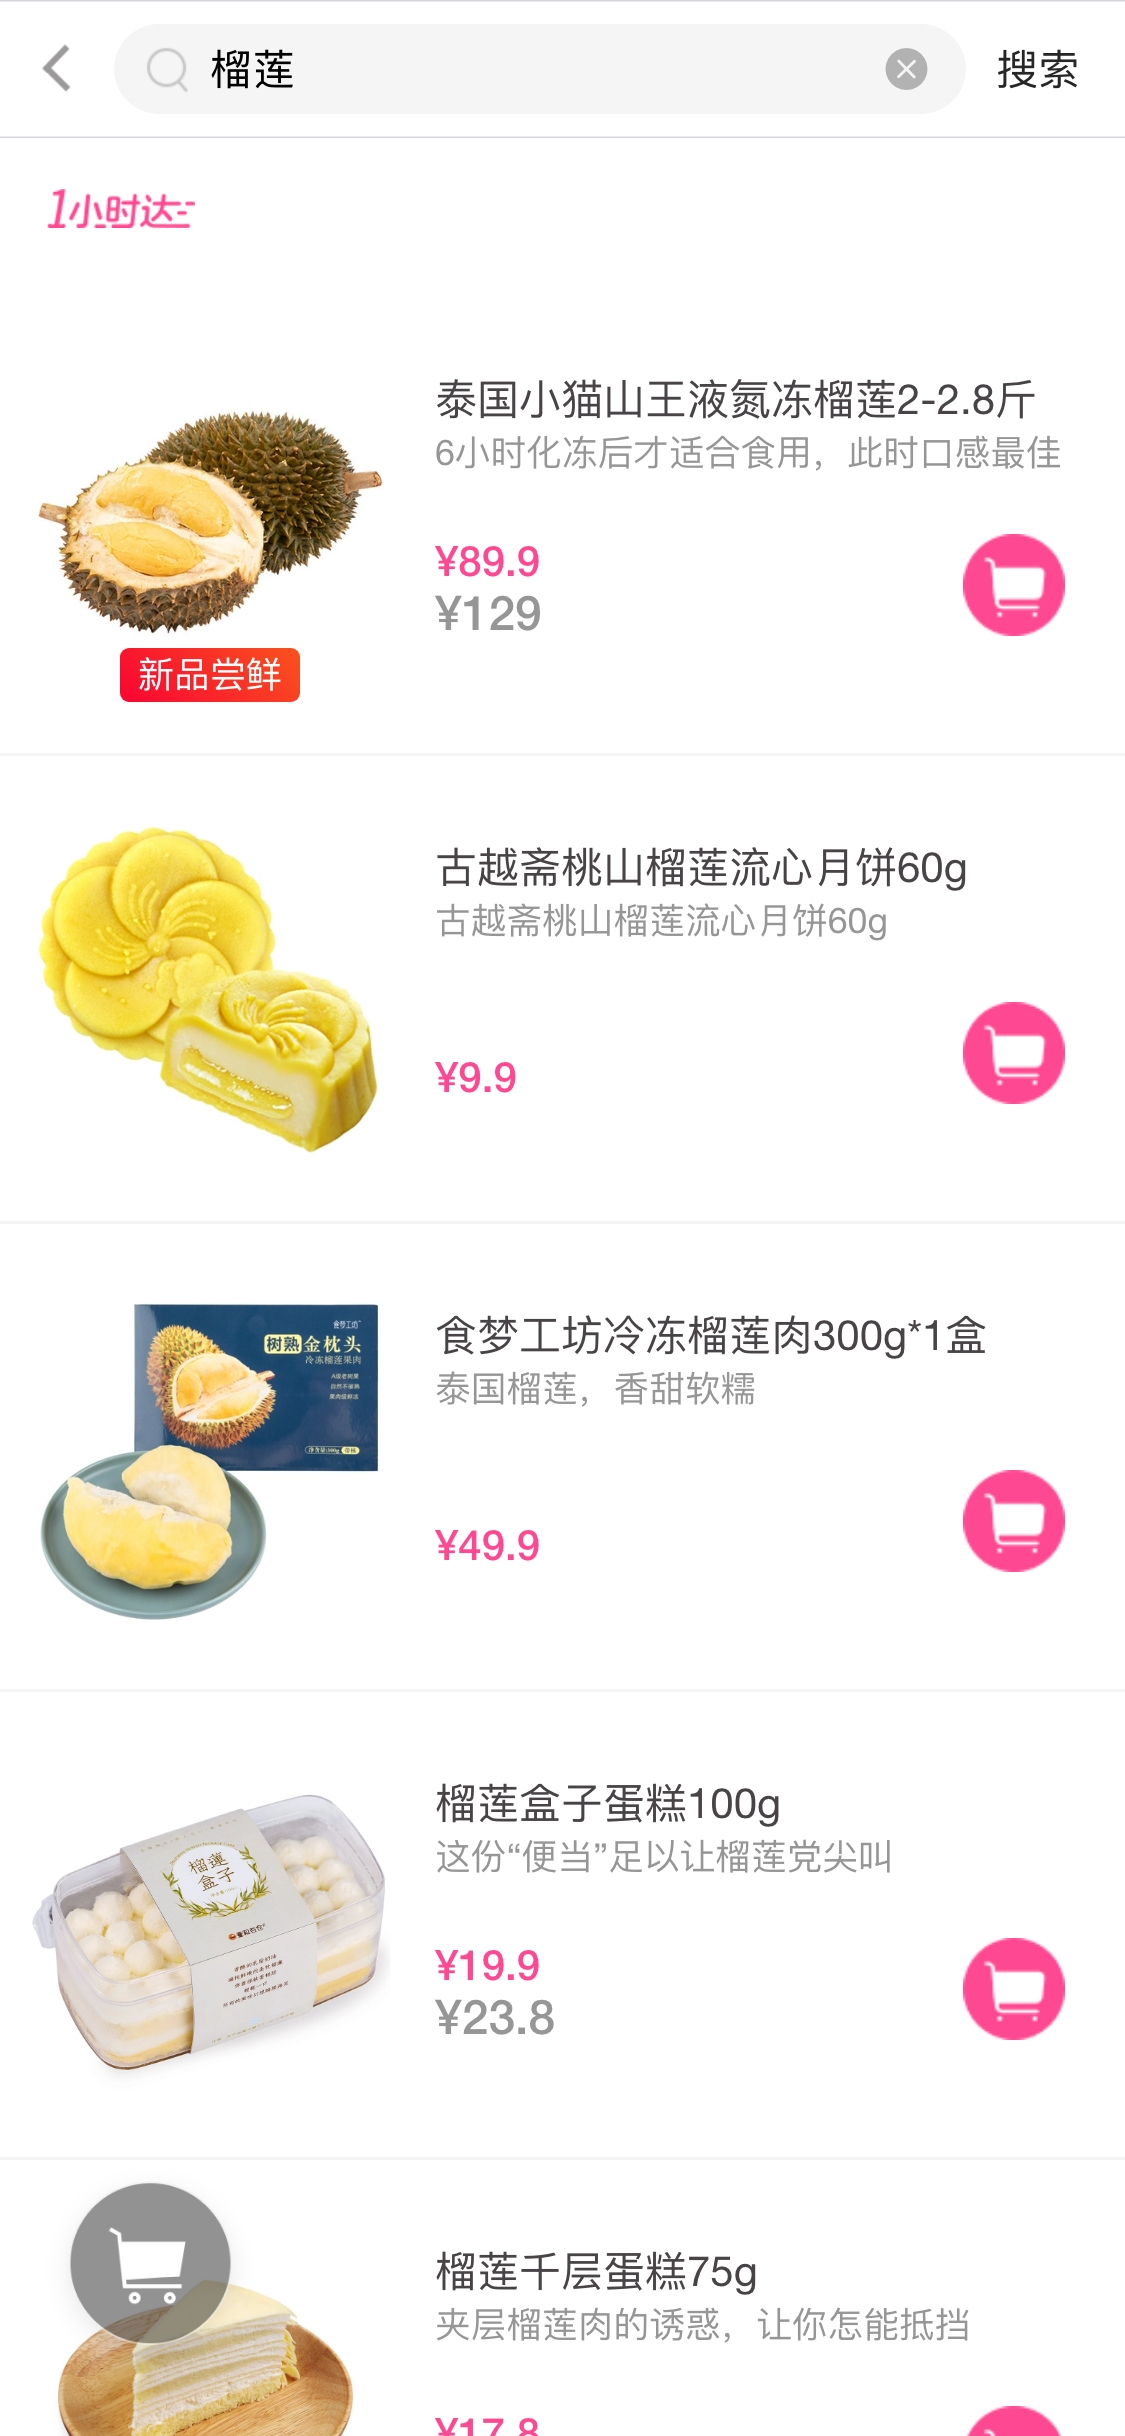
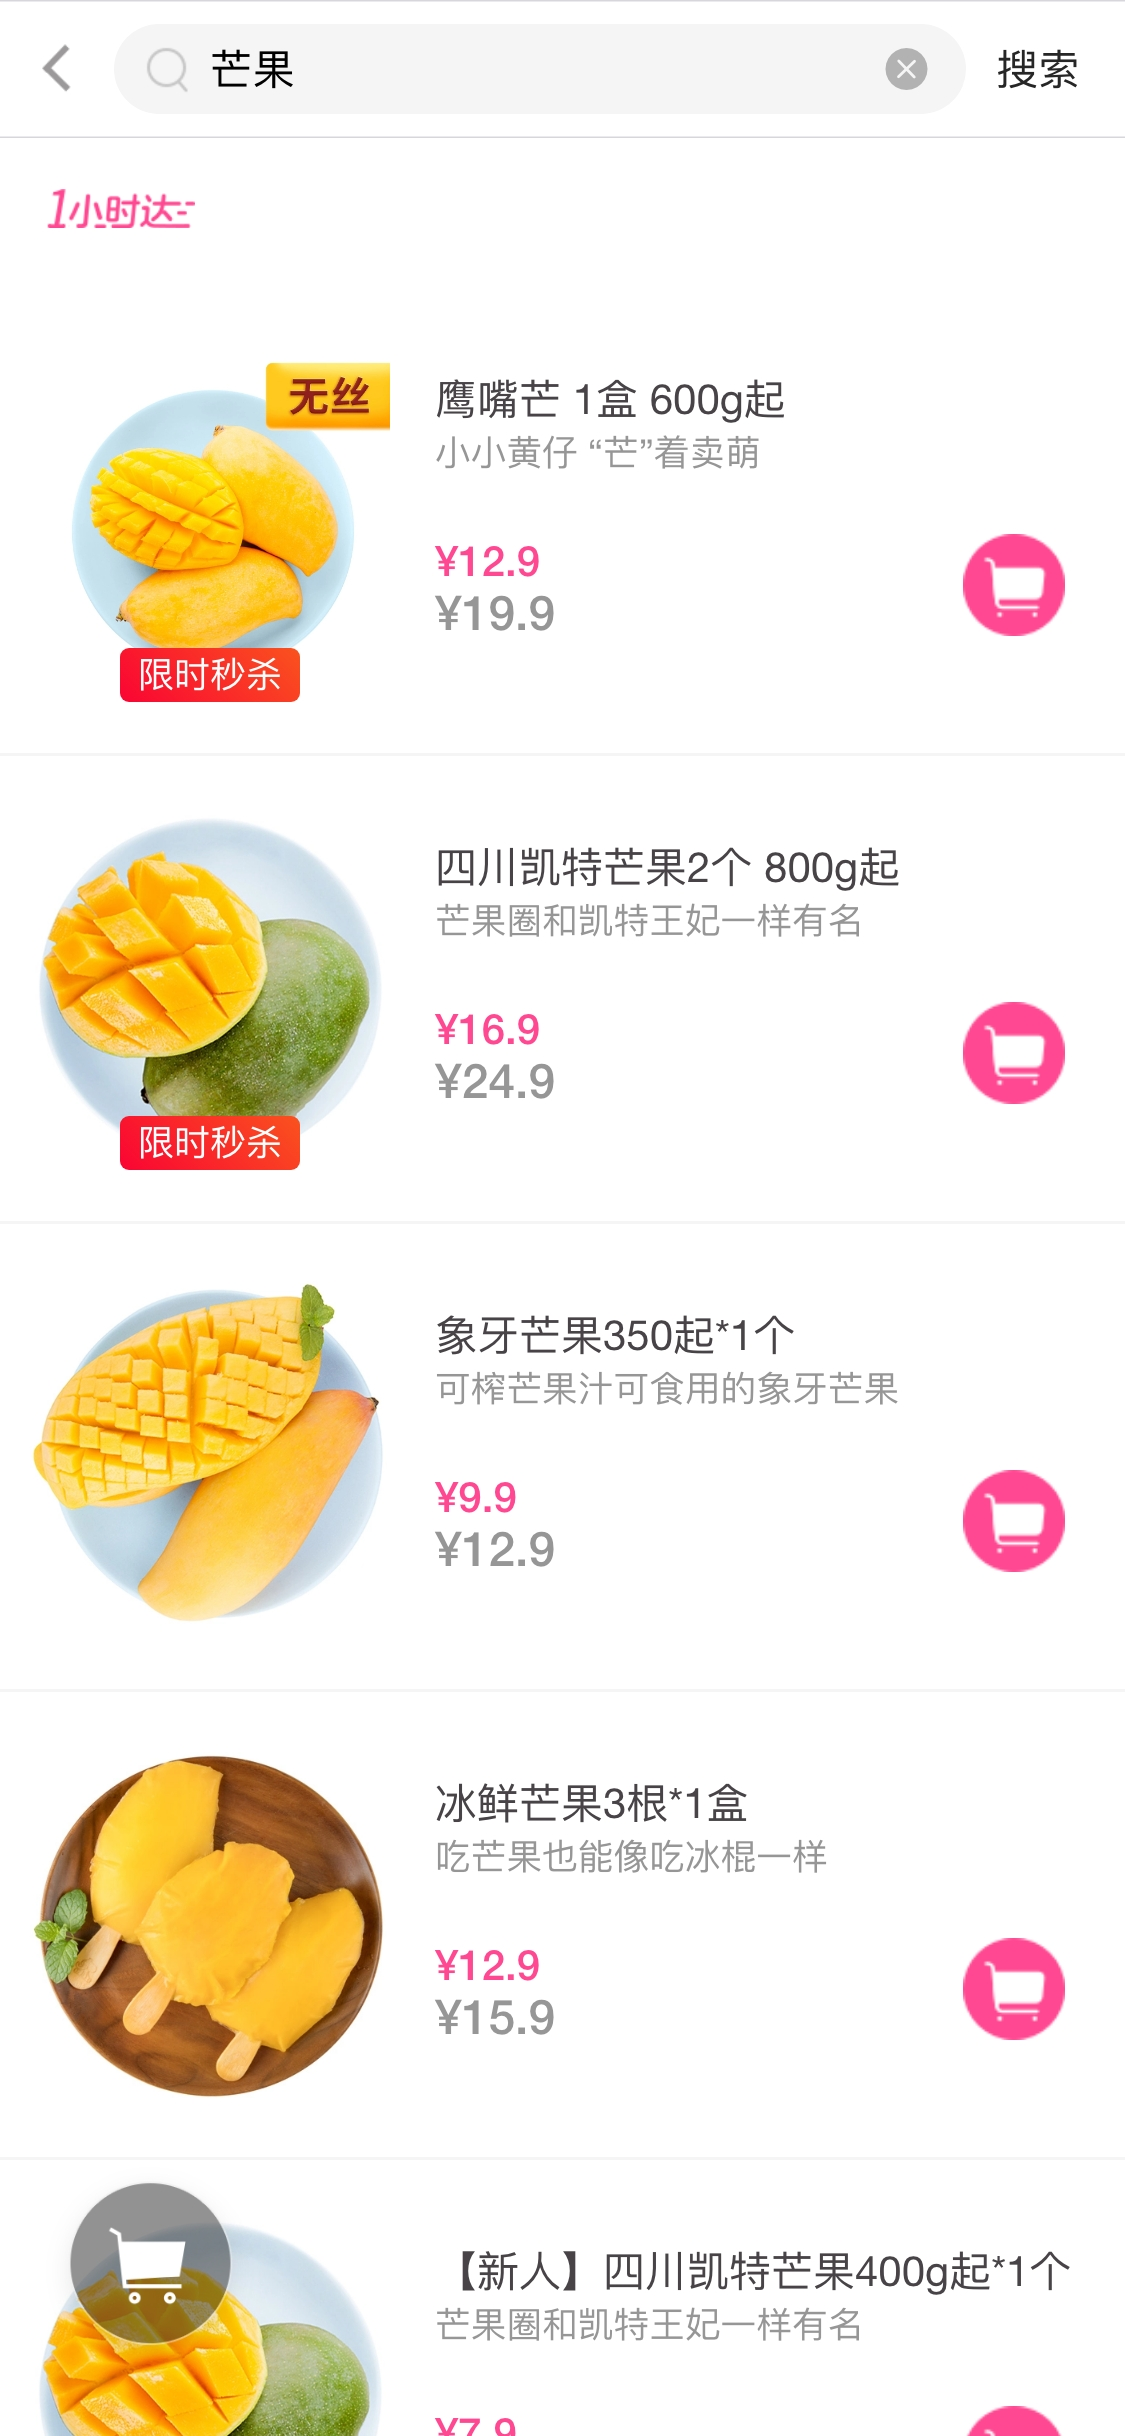
爬到的数据自动发到邮箱

diff --git a/index.js b/index.js
@@ -1,6 +1,8 @@
 const puppeteer = require('puppeteer');
 const devices = require('puppeteer/DeviceDescriptors');
+const nodemailer = require('nodemailer'); //发送邮件的node插
 const iPhone = devices['iPhone X'];
+
 (async () => {
   const browser = await puppeteer.launch();
   const page = await browser.newPage();
@@ -15,13 +17,44 @@ const iPhone = devices['iPhone X'];
     waitUntil: 'load'
   });
   await page.waitForSelector('.search');
-  console.log('输入榴莲');
-  await page.type('.weui-search-bar__input', '榴莲', {delay: 100});
+  console.log('输入芒果');
+  await page.type('.weui-search-bar__input', '芒果', {delay: 100});
   console.log('点击搜索');
   await page.click('.search-btn');
-  console.log('正在搜索榴莲');
+  console.log('正在搜索芒果');
   await page.waitFor(2500);
   console.log('正在截屏');
   await page.screenshot({path:'mryx.jpg', quality: 100});
+
+  let transporter = nodemailer.createTransport({
+    service: 'QQ', // 发送者的邮箱厂商，支持列表：https://nodemailer.com/smtp/well-known/
+    port: 465, // SMTP 端口
+    secureConnection: true, // SSL安全链接
+    auth: {   //发送者的账户密码
+      user: '625027428@qq.com', //账户
+      pass: 'wrphlyzmgsafbbhh', //smtp授权码，到邮箱设置下获取
+    }
+  });
+
+  let mailOptions = {
+    from: 'chenft <625027428@qq.com>', // 发送者昵称和地址
+    to: '625027428@qq.com', // 接收者的邮箱地址
+    subject: '一封暖暖的小邮件', // 邮件主题
+    html: '<div style="color:red"><img src="cid:001" /></div>',
+    attachments: [{
+      filename: 'mryx.jpg',
+      path: './mryx.jpg',
+      cid: '001'
+    }]
+  };
+
+  //发送邮件
+  transporter.sendMail(mailOptions, (error, info) => {
+    if (error) {
+    return console.log(error);
+    }
+    console.log('邮件发送成功 ID：', info.messageId);
+  });
   browser.close();
 })();
+
